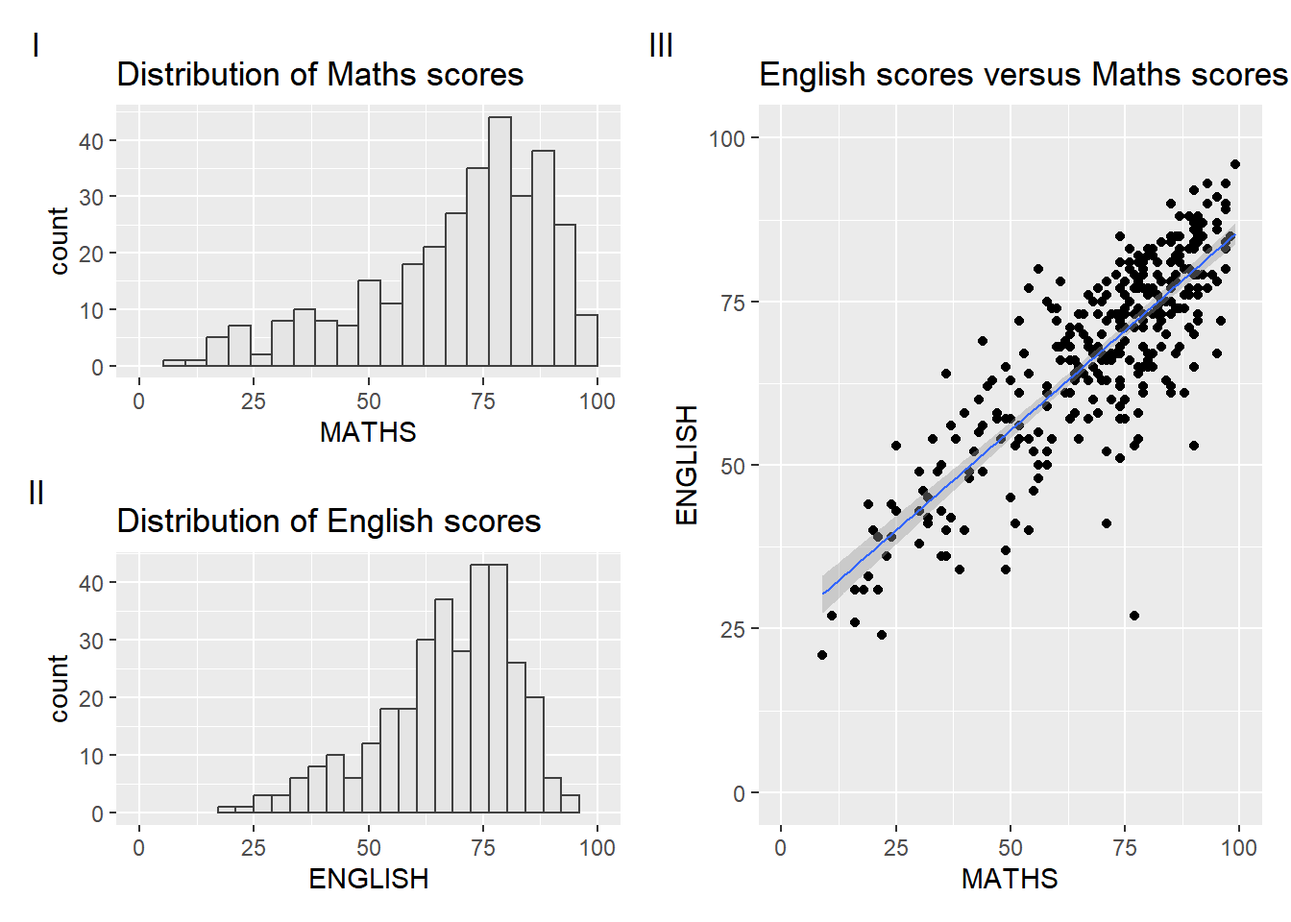
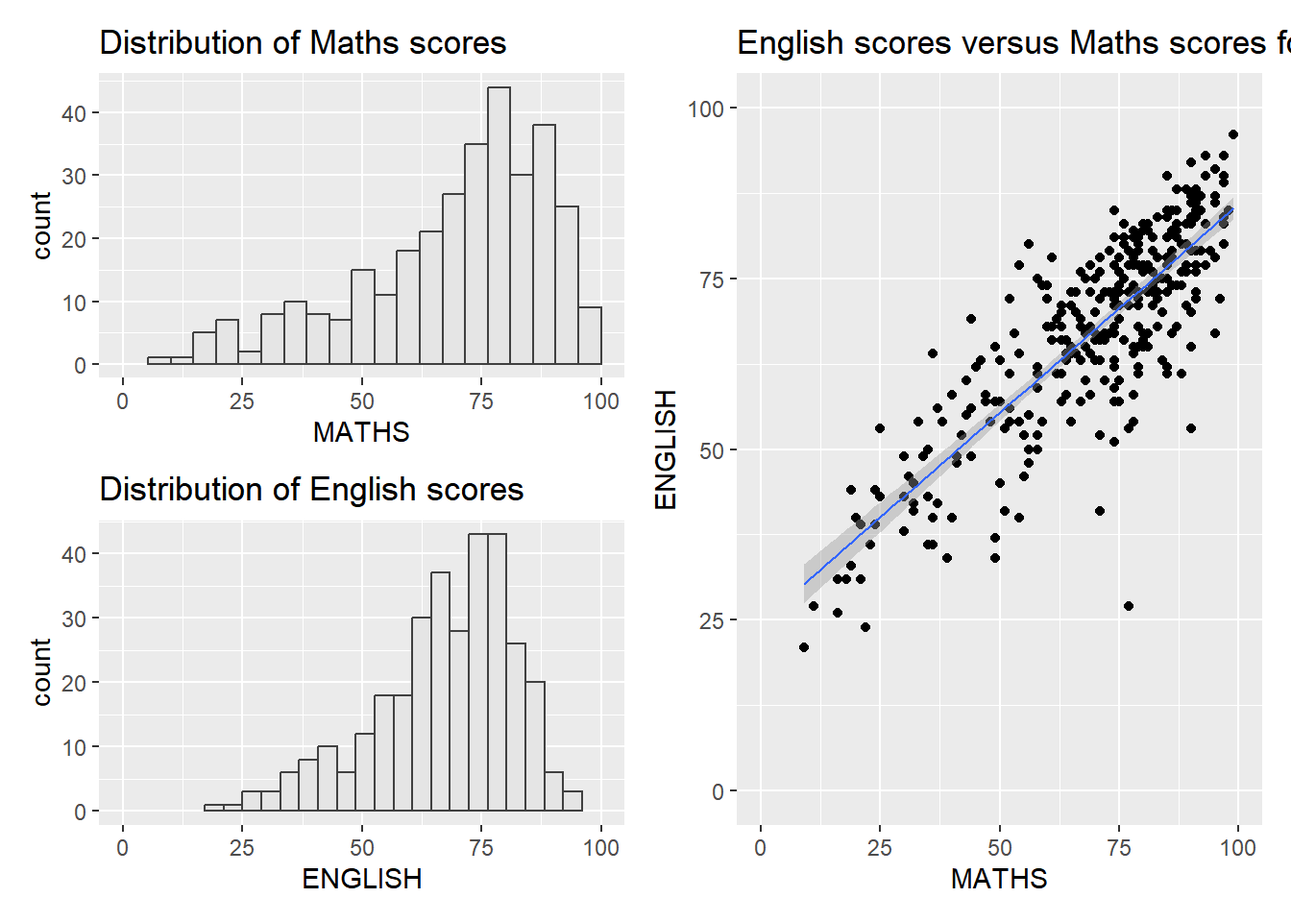
Hands-on 02.Text

diff --git a/_site/Hands-on_Ex/Hands-on EX02/Hands-on Ex02.html b/_site/Hands-on_Ex/Hands-on EX02/Hands-on Ex02.html
@@ -167,6 +167,25 @@ pre > code.sourceCode > span > a:first-child::before { text-decoration: underlin
   <li><a href="#beyond-ggplot2-fundamentals" id="toc-beyond-ggplot2-fundamentals" class="nav-link active" data-scroll-target="#beyond-ggplot2-fundamentals"><strong>2. Beyond ggplot2 Fundamentals</strong></a>
   <ul class="collapse">
   <li><a href="#getting-started" id="toc-getting-started" class="nav-link" data-scroll-target="#getting-started"><strong>2.1 Getting started</strong></a></li>
+  <li><a href="#importing-data" id="toc-importing-data" class="nav-link" data-scroll-target="#importing-data">2.2 Importing data</a></li>
+  <li><a href="#beyand-ggplot2-annotation-ggrepel" id="toc-beyand-ggplot2-annotation-ggrepel" class="nav-link" data-scroll-target="#beyand-ggplot2-annotation-ggrepel">2.3 Beyand ggplot2 Annotation: ggrepel</a>
+  <ul class="collapse">
+  <li><a href="#working-with-ggrepel" id="toc-working-with-ggrepel" class="nav-link" data-scroll-target="#working-with-ggrepel">2.3.1 working with ggrepel</a></li>
+  </ul></li>
+  <li><a href="#beyond-ggplot2-themes" id="toc-beyond-ggplot2-themes" class="nav-link" data-scroll-target="#beyond-ggplot2-themes">2.4 Beyond ggplot2 Themes</a>
+  <ul class="collapse">
+  <li><a href="#working-with-ggthems-package" id="toc-working-with-ggthems-package" class="nav-link" data-scroll-target="#working-with-ggthems-package">2.4.1 Working with ggthems package</a></li>
+  <li><a href="#working-with-hrbthems-package" id="toc-working-with-hrbthems-package" class="nav-link" data-scroll-target="#working-with-hrbthems-package">2.4.2 Working with hrbthems package</a></li>
+  </ul></li>
+  <li><a href="#beyond-single-graph" id="toc-beyond-single-graph" class="nav-link" data-scroll-target="#beyond-single-graph">2.5 Beyond Single Graph</a>
+  <ul class="collapse">
+  <li><a href="#about-pathwork-methods-the-general-syntax-that-combines" id="toc-about-pathwork-methods-the-general-syntax-that-combines" class="nav-link" data-scroll-target="#about-pathwork-methods-the-general-syntax-that-combines">2.5.1 About pathwork methods The general syntax that combines:</a></li>
+  <li><a href="#combining-two-ggplot2-graphs" id="toc-combining-two-ggplot2-graphs" class="nav-link" data-scroll-target="#combining-two-ggplot2-graphs">2.5.2 <strong>Combining two ggplot2 graphs</strong></a></li>
+  <li><a href="#combining-three-ggplot2-graphs" id="toc-combining-three-ggplot2-graphs" class="nav-link" data-scroll-target="#combining-three-ggplot2-graphs">2.5.3 <strong>Combining three ggplot2 graphs</strong></a></li>
+  <li><a href="#creating-a-composite-figure-with-tag" id="toc-creating-a-composite-figure-with-tag" class="nav-link" data-scroll-target="#creating-a-composite-figure-with-tag">2.5.4 <strong>Creating a composite figure with tag</strong></a></li>
+  <li><a href="#creating-figure-with-insert" id="toc-creating-figure-with-insert" class="nav-link" data-scroll-target="#creating-figure-with-insert">2.5.5 <strong>Creating figure with insert</strong></a></li>
+  <li><a href="#creating-a-composite-figure-by-using-patchwork-and-ggtheme" id="toc-creating-a-composite-figure-by-using-patchwork-and-ggtheme" class="nav-link" data-scroll-target="#creating-a-composite-figure-by-using-patchwork-and-ggtheme">2.5.6 <strong>Creating a composite figure by using patchwork and ggtheme</strong></a></li>
+  </ul></li>
   </ul></li>
   </ul>
 </nav>
@@ -199,6 +218,11 @@ pre > code.sourceCode > span > a:first-child::before { text-decoration: underlin
 </header>
 
 
+<section id="beyond-ggplot2-fundamentals" class="level1">
+<h1><strong>2. Beyond ggplot2 Fundamentals</strong></h1>
+<section id="getting-started" class="level2">
+<h2 class="anchored" data-anchor-id="getting-started"><strong>2.1 Getting started</strong></h2>
+<p>Installing and loading the required libraries</p>
 <div class="cell">
 <div class="sourceCode cell-code" id="cb1"><pre class="sourceCode r code-with-copy"><code class="sourceCode r"><span id="cb1-1"><a href="#cb1-1" aria-hidden="true" tabindex="-1"></a>pacman<span class="sc">::</span> <span class="fu">p_load</span>(tidyverse)</span></code><button title="Copy to Clipboard" class="code-copy-button"><i class="bi"></i></button></pre></div>
 </div>
@@ -207,6 +231,9 @@ pre > code.sourceCode > span > a:first-child::before { text-decoration: underlin
 <span id="cb2-2"><a href="#cb2-2" aria-hidden="true" tabindex="-1"></a>               ggthemes, hrbrthemes,</span>
 <span id="cb2-3"><a href="#cb2-3" aria-hidden="true" tabindex="-1"></a>               tidyverse) </span></code><button title="Copy to Clipboard" class="code-copy-button"><i class="bi"></i></button></pre></div>
 </div>
+</section>
+<section id="importing-data" class="level2">
+<h2 class="anchored" data-anchor-id="importing-data">2.2 Importing data</h2>
 <div class="cell">
 <div class="sourceCode cell-code" id="cb3"><pre class="sourceCode r code-with-copy"><code class="sourceCode r"><span id="cb3-1"><a href="#cb3-1" aria-hidden="true" tabindex="-1"></a>exam_data <span class="ot">&lt;-</span> <span class="fu">read_csv</span>(<span class="st">"Exam_data.csv"</span>, <span class="at">col_types =</span> <span class="fu">cols</span>(</span>
 <span id="cb3-2"><a href="#cb3-2" aria-hidden="true" tabindex="-1"></a>  <span class="at">ID =</span> <span class="fu">col_character</span>(),</span>
@@ -218,11 +245,9 @@ pre > code.sourceCode > span > a:first-child::before { text-decoration: underlin
 <span id="cb3-8"><a href="#cb3-8" aria-hidden="true" tabindex="-1"></a>  <span class="at">SCIENCE =</span> <span class="fu">col_double</span>()</span>
 <span id="cb3-9"><a href="#cb3-9" aria-hidden="true" tabindex="-1"></a>))</span></code><button title="Copy to Clipboard" class="code-copy-button"><i class="bi"></i></button></pre></div>
 </div>
-<section id="beyond-ggplot2-fundamentals" class="level1">
-<h1><strong>2. Beyond ggplot2 Fundamentals</strong></h1>
-<section id="getting-started" class="level2">
-<h2 class="anchored" data-anchor-id="getting-started"><strong>2.1 Getting started</strong></h2>
-<p>2.3.1</p>
+</section>
+<section id="beyand-ggplot2-annotation-ggrepel" class="level2">
+<h2 class="anchored" data-anchor-id="beyand-ggplot2-annotation-ggrepel">2.3 Beyand ggplot2 Annotation: ggrepel</h2>
 <div class="cell">
 <div class="sourceCode cell-code" id="cb4"><pre class="sourceCode r code-with-copy"><code class="sourceCode r"><span id="cb4-1"><a href="#cb4-1" aria-hidden="true" tabindex="-1"></a><span class="fu">ggplot</span>(<span class="at">data=</span>exam_data, </span>
 <span id="cb4-2"><a href="#cb4-2" aria-hidden="true" tabindex="-1"></a>       <span class="fu">aes</span>(<span class="at">x=</span> MATHS, </span>
@@ -251,16 +276,27 @@ pre > code.sourceCode > span > a:first-child::before { text-decoration: underlin
 </div>
 </div>
 </div>
-<p>2.4</p>
+<section id="working-with-ggrepel" class="level3">
+<h3 class="anchored" data-anchor-id="working-with-ggrepel">2.3.1 working with ggrepel</h3>
 <div class="cell">
 <div class="sourceCode cell-code" id="cb7"><pre class="sourceCode r code-with-copy"><code class="sourceCode r"><span id="cb7-1"><a href="#cb7-1" aria-hidden="true" tabindex="-1"></a><span class="fu">ggplot</span>(<span class="at">data=</span>exam_data, </span>
-<span id="cb7-2"><a href="#cb7-2" aria-hidden="true" tabindex="-1"></a>             <span class="fu">aes</span>(<span class="at">x =</span> MATHS)) <span class="sc">+</span></span>
-<span id="cb7-3"><a href="#cb7-3" aria-hidden="true" tabindex="-1"></a>  <span class="fu">geom_histogram</span>(<span class="at">bins=</span><span class="dv">20</span>, </span>
-<span id="cb7-4"><a href="#cb7-4" aria-hidden="true" tabindex="-1"></a>                 <span class="at">boundary =</span> <span class="dv">100</span>,</span>
-<span id="cb7-5"><a href="#cb7-5" aria-hidden="true" tabindex="-1"></a>                 <span class="at">color=</span><span class="st">"grey25"</span>, </span>
-<span id="cb7-6"><a href="#cb7-6" aria-hidden="true" tabindex="-1"></a>                 <span class="at">fill=</span><span class="st">"grey90"</span>) <span class="sc">+</span></span>
-<span id="cb7-7"><a href="#cb7-7" aria-hidden="true" tabindex="-1"></a>  <span class="fu">theme_gray</span>() <span class="sc">+</span></span>
-<span id="cb7-8"><a href="#cb7-8" aria-hidden="true" tabindex="-1"></a>  <span class="fu">ggtitle</span>(<span class="st">"Distribution of Maths scores"</span>) </span></code><button title="Copy to Clipboard" class="code-copy-button"><i class="bi"></i></button></pre></div>
+<span id="cb7-2"><a href="#cb7-2" aria-hidden="true" tabindex="-1"></a>       <span class="fu">aes</span>(<span class="at">x=</span> MATHS, </span>
+<span id="cb7-3"><a href="#cb7-3" aria-hidden="true" tabindex="-1"></a>           <span class="at">y=</span>ENGLISH)) <span class="sc">+</span></span>
+<span id="cb7-4"><a href="#cb7-4" aria-hidden="true" tabindex="-1"></a>  <span class="fu">geom_point</span>() <span class="sc">+</span></span>
+<span id="cb7-5"><a href="#cb7-5" aria-hidden="true" tabindex="-1"></a>  <span class="fu">geom_smooth</span>(<span class="at">method=</span>lm, </span>
+<span id="cb7-6"><a href="#cb7-6" aria-hidden="true" tabindex="-1"></a>              <span class="at">size=</span><span class="fl">0.5</span>) <span class="sc">+</span>  </span>
+<span id="cb7-7"><a href="#cb7-7" aria-hidden="true" tabindex="-1"></a>  <span class="fu">geom_label_repel</span>(<span class="fu">aes</span>(<span class="at">label =</span> ID), </span>
+<span id="cb7-8"><a href="#cb7-8" aria-hidden="true" tabindex="-1"></a>                   <span class="at">fontface =</span> <span class="st">"bold"</span>) <span class="sc">+</span></span>
+<span id="cb7-9"><a href="#cb7-9" aria-hidden="true" tabindex="-1"></a>  <span class="fu">coord_cartesian</span>(<span class="at">xlim=</span><span class="fu">c</span>(<span class="dv">0</span>,<span class="dv">100</span>),</span>
+<span id="cb7-10"><a href="#cb7-10" aria-hidden="true" tabindex="-1"></a>                  <span class="at">ylim=</span><span class="fu">c</span>(<span class="dv">0</span>,<span class="dv">100</span>)) <span class="sc">+</span></span>
+<span id="cb7-11"><a href="#cb7-11" aria-hidden="true" tabindex="-1"></a>  <span class="fu">ggtitle</span>(<span class="st">"English scores versus Maths scores for Primary 3"</span>)</span></code><button title="Copy to Clipboard" class="code-copy-button"><i class="bi"></i></button></pre></div>
+<div class="cell-output cell-output-stderr">
+<pre><code>`geom_smooth()` using formula = 'y ~ x'</code></pre>
+</div>
+<div class="cell-output cell-output-stderr">
+<pre><code>Warning: ggrepel: 317 unlabeled data points (too many overlaps). Consider
+increasing max.overlaps</code></pre>
+</div>
 <div class="cell-output-display">
 <div>
 <figure class="figure">
@@ -269,16 +305,19 @@ pre > code.sourceCode > span > a:first-child::before { text-decoration: underlin
 </div>
 </div>
 </div>
-<p>2.4.1</p>
+</section>
+</section>
+<section id="beyond-ggplot2-themes" class="level2">
+<h2 class="anchored" data-anchor-id="beyond-ggplot2-themes">2.4 Beyond ggplot2 Themes</h2>
 <div class="cell">
-<div class="sourceCode cell-code" id="cb8"><pre class="sourceCode r code-with-copy"><code class="sourceCode r"><span id="cb8-1"><a href="#cb8-1" aria-hidden="true" tabindex="-1"></a><span class="fu">ggplot</span>(<span class="at">data=</span>exam_data, </span>
-<span id="cb8-2"><a href="#cb8-2" aria-hidden="true" tabindex="-1"></a>             <span class="fu">aes</span>(<span class="at">x =</span> MATHS)) <span class="sc">+</span></span>
-<span id="cb8-3"><a href="#cb8-3" aria-hidden="true" tabindex="-1"></a>  <span class="fu">geom_histogram</span>(<span class="at">bins=</span><span class="dv">20</span>, </span>
-<span id="cb8-4"><a href="#cb8-4" aria-hidden="true" tabindex="-1"></a>                 <span class="at">boundary =</span> <span class="dv">100</span>,</span>
-<span id="cb8-5"><a href="#cb8-5" aria-hidden="true" tabindex="-1"></a>                 <span class="at">color=</span><span class="st">"grey25"</span>, </span>
-<span id="cb8-6"><a href="#cb8-6" aria-hidden="true" tabindex="-1"></a>                 <span class="at">fill=</span><span class="st">"grey90"</span>) <span class="sc">+</span></span>
-<span id="cb8-7"><a href="#cb8-7" aria-hidden="true" tabindex="-1"></a>  <span class="fu">ggtitle</span>(<span class="st">"Distribution of Maths scores"</span>) <span class="sc">+</span></span>
-<span id="cb8-8"><a href="#cb8-8" aria-hidden="true" tabindex="-1"></a>  <span class="fu">theme_economist</span>()</span></code><button title="Copy to Clipboard" class="code-copy-button"><i class="bi"></i></button></pre></div>
+<div class="sourceCode cell-code" id="cb10"><pre class="sourceCode r code-with-copy"><code class="sourceCode r"><span id="cb10-1"><a href="#cb10-1" aria-hidden="true" tabindex="-1"></a><span class="fu">ggplot</span>(<span class="at">data=</span>exam_data, </span>
+<span id="cb10-2"><a href="#cb10-2" aria-hidden="true" tabindex="-1"></a>             <span class="fu">aes</span>(<span class="at">x =</span> MATHS)) <span class="sc">+</span></span>
+<span id="cb10-3"><a href="#cb10-3" aria-hidden="true" tabindex="-1"></a>  <span class="fu">geom_histogram</span>(<span class="at">bins=</span><span class="dv">20</span>, </span>
+<span id="cb10-4"><a href="#cb10-4" aria-hidden="true" tabindex="-1"></a>                 <span class="at">boundary =</span> <span class="dv">100</span>,</span>
+<span id="cb10-5"><a href="#cb10-5" aria-hidden="true" tabindex="-1"></a>                 <span class="at">color=</span><span class="st">"grey25"</span>, </span>
+<span id="cb10-6"><a href="#cb10-6" aria-hidden="true" tabindex="-1"></a>                 <span class="at">fill=</span><span class="st">"grey90"</span>) <span class="sc">+</span></span>
+<span id="cb10-7"><a href="#cb10-7" aria-hidden="true" tabindex="-1"></a>  <span class="fu">theme_gray</span>() <span class="sc">+</span></span>
+<span id="cb10-8"><a href="#cb10-8" aria-hidden="true" tabindex="-1"></a>  <span class="fu">ggtitle</span>(<span class="st">"Distribution of Maths scores"</span>) </span></code><button title="Copy to Clipboard" class="code-copy-button"><i class="bi"></i></button></pre></div>
 <div class="cell-output-display">
 <div>
 <figure class="figure">
@@ -287,16 +326,17 @@ pre > code.sourceCode > span > a:first-child::before { text-decoration: underlin
 </div>
 </div>
 </div>
-<p>2.4.2</p>
+<section id="working-with-ggthems-package" class="level3">
+<h3 class="anchored" data-anchor-id="working-with-ggthems-package">2.4.1 Working with ggthems package</h3>
 <div class="cell">
-<div class="sourceCode cell-code" id="cb9"><pre class="sourceCode r code-with-copy"><code class="sourceCode r"><span id="cb9-1"><a href="#cb9-1" aria-hidden="true" tabindex="-1"></a><span class="fu">ggplot</span>(<span class="at">data=</span>exam_data, </span>
-<span id="cb9-2"><a href="#cb9-2" aria-hidden="true" tabindex="-1"></a>             <span class="fu">aes</span>(<span class="at">x =</span> MATHS)) <span class="sc">+</span></span>
-<span id="cb9-3"><a href="#cb9-3" aria-hidden="true" tabindex="-1"></a>  <span class="fu">geom_histogram</span>(<span class="at">bins=</span><span class="dv">20</span>, </span>
-<span id="cb9-4"><a href="#cb9-4" aria-hidden="true" tabindex="-1"></a>                 <span class="at">boundary =</span> <span class="dv">100</span>,</span>
-<span id="cb9-5"><a href="#cb9-5" aria-hidden="true" tabindex="-1"></a>                 <span class="at">color=</span><span class="st">"grey25"</span>, </span>
-<span id="cb9-6"><a href="#cb9-6" aria-hidden="true" tabindex="-1"></a>                 <span class="at">fill=</span><span class="st">"grey90"</span>) <span class="sc">+</span></span>
-<span id="cb9-7"><a href="#cb9-7" aria-hidden="true" tabindex="-1"></a>  <span class="fu">ggtitle</span>(<span class="st">"Distribution of Maths scores"</span>) <span class="sc">+</span></span>
-<span id="cb9-8"><a href="#cb9-8" aria-hidden="true" tabindex="-1"></a>  <span class="fu">theme_classic</span>()</span></code><button title="Copy to Clipboard" class="code-copy-button"><i class="bi"></i></button></pre></div>
+<div class="sourceCode cell-code" id="cb11"><pre class="sourceCode r code-with-copy"><code class="sourceCode r"><span id="cb11-1"><a href="#cb11-1" aria-hidden="true" tabindex="-1"></a><span class="fu">ggplot</span>(<span class="at">data=</span>exam_data, </span>
+<span id="cb11-2"><a href="#cb11-2" aria-hidden="true" tabindex="-1"></a>             <span class="fu">aes</span>(<span class="at">x =</span> MATHS)) <span class="sc">+</span></span>
+<span id="cb11-3"><a href="#cb11-3" aria-hidden="true" tabindex="-1"></a>  <span class="fu">geom_histogram</span>(<span class="at">bins=</span><span class="dv">20</span>, </span>
+<span id="cb11-4"><a href="#cb11-4" aria-hidden="true" tabindex="-1"></a>                 <span class="at">boundary =</span> <span class="dv">100</span>,</span>
+<span id="cb11-5"><a href="#cb11-5" aria-hidden="true" tabindex="-1"></a>                 <span class="at">color=</span><span class="st">"grey25"</span>, </span>
+<span id="cb11-6"><a href="#cb11-6" aria-hidden="true" tabindex="-1"></a>                 <span class="at">fill=</span><span class="st">"grey90"</span>) <span class="sc">+</span></span>
+<span id="cb11-7"><a href="#cb11-7" aria-hidden="true" tabindex="-1"></a>  <span class="fu">ggtitle</span>(<span class="st">"Distribution of Maths scores"</span>) <span class="sc">+</span></span>
+<span id="cb11-8"><a href="#cb11-8" aria-hidden="true" tabindex="-1"></a>  <span class="fu">theme_economist</span>()</span></code><button title="Copy to Clipboard" class="code-copy-button"><i class="bi"></i></button></pre></div>
 <div class="cell-output-display">
 <div>
 <figure class="figure">
@@ -305,19 +345,18 @@ pre > code.sourceCode > span > a:first-child::before { text-decoration: underlin
 </div>
 </div>
 </div>
+</section>
+<section id="working-with-hrbthems-package" class="level3">
+<h3 class="anchored" data-anchor-id="working-with-hrbthems-package">2.4.2 Working with hrbthems package</h3>
 <div class="cell">
-<div class="sourceCode cell-code" id="cb10"><pre class="sourceCode r code-with-copy"><code class="sourceCode r"><span id="cb10-1"><a href="#cb10-1" aria-hidden="true" tabindex="-1"></a><span class="fu">ggplot</span>(<span class="at">data=</span>exam_data, </span>
-<span id="cb10-2"><a href="#cb10-2" aria-hidden="true" tabindex="-1"></a>             <span class="fu">aes</span>(<span class="at">x =</span> MATHS)) <span class="sc">+</span></span>
-<span id="cb10-3"><a href="#cb10-3" aria-hidden="true" tabindex="-1"></a>  <span class="fu">geom_histogram</span>(<span class="at">bins=</span><span class="dv">20</span>, </span>
-<span id="cb10-4"><a href="#cb10-4" aria-hidden="true" tabindex="-1"></a>                 <span class="at">boundary =</span> <span class="dv">100</span>,</span>
-<span id="cb10-5"><a href="#cb10-5" aria-hidden="true" tabindex="-1"></a>                 <span class="at">color=</span><span class="st">"grey25"</span>, </span>
-<span id="cb10-6"><a href="#cb10-6" aria-hidden="true" tabindex="-1"></a>                 <span class="at">fill=</span><span class="st">"grey90"</span>) <span class="sc">+</span></span>
-<span id="cb10-7"><a href="#cb10-7" aria-hidden="true" tabindex="-1"></a>  <span class="fu">ggtitle</span>(<span class="st">"Distribution of Maths scores"</span>) <span class="sc">+</span></span>
-<span id="cb10-8"><a href="#cb10-8" aria-hidden="true" tabindex="-1"></a>  <span class="fu">theme_minimal</span>(<span class="at">base_size =</span> <span class="dv">15</span>) <span class="sc">+</span> </span>
-<span id="cb10-9"><a href="#cb10-9" aria-hidden="true" tabindex="-1"></a>  <span class="fu">theme</span>(<span class="at">axis.title =</span> <span class="fu">element_text</span>(<span class="at">size =</span> <span class="dv">18</span>), </span>
-<span id="cb10-10"><a href="#cb10-10" aria-hidden="true" tabindex="-1"></a>        <span class="at">axis.text =</span> <span class="fu">element_text</span>(<span class="at">size =</span> <span class="dv">15</span>),  </span>
-<span id="cb10-11"><a href="#cb10-11" aria-hidden="true" tabindex="-1"></a>        <span class="at">panel.grid.major.y =</span> <span class="fu">element_line</span>(),  </span>
-<span id="cb10-12"><a href="#cb10-12" aria-hidden="true" tabindex="-1"></a>        <span class="at">panel.grid.minor.y =</span> <span class="fu">element_blank</span>())</span></code><button title="Copy to Clipboard" class="code-copy-button"><i class="bi"></i></button></pre></div>
+<div class="sourceCode cell-code" id="cb12"><pre class="sourceCode r code-with-copy"><code class="sourceCode r"><span id="cb12-1"><a href="#cb12-1" aria-hidden="true" tabindex="-1"></a><span class="fu">ggplot</span>(<span class="at">data=</span>exam_data, </span>
+<span id="cb12-2"><a href="#cb12-2" aria-hidden="true" tabindex="-1"></a>             <span class="fu">aes</span>(<span class="at">x =</span> MATHS)) <span class="sc">+</span></span>
+<span id="cb12-3"><a href="#cb12-3" aria-hidden="true" tabindex="-1"></a>  <span class="fu">geom_histogram</span>(<span class="at">bins=</span><span class="dv">20</span>, </span>
+<span id="cb12-4"><a href="#cb12-4" aria-hidden="true" tabindex="-1"></a>                 <span class="at">boundary =</span> <span class="dv">100</span>,</span>
+<span id="cb12-5"><a href="#cb12-5" aria-hidden="true" tabindex="-1"></a>                 <span class="at">color=</span><span class="st">"grey25"</span>, </span>
+<span id="cb12-6"><a href="#cb12-6" aria-hidden="true" tabindex="-1"></a>                 <span class="at">fill=</span><span class="st">"grey90"</span>) <span class="sc">+</span></span>
+<span id="cb12-7"><a href="#cb12-7" aria-hidden="true" tabindex="-1"></a>  <span class="fu">ggtitle</span>(<span class="st">"Distribution of Maths scores"</span>) <span class="sc">+</span></span>
+<span id="cb12-8"><a href="#cb12-8" aria-hidden="true" tabindex="-1"></a>  <span class="fu">theme_classic</span>()</span></code><button title="Copy to Clipboard" class="code-copy-button"><i class="bi"></i></button></pre></div>
 <div class="cell-output-display">
 <div>
 <figure class="figure">
@@ -326,55 +365,74 @@ pre > code.sourceCode > span > a:first-child::before { text-decoration: underlin
 </div>
 </div>
 </div>
-<p>2.5</p>
 <div class="cell">
-<div class="sourceCode cell-code" id="cb11"><pre class="sourceCode r code-with-copy"><code class="sourceCode r"><span id="cb11-1"><a href="#cb11-1" aria-hidden="true" tabindex="-1"></a>p1 <span class="ot">&lt;-</span> <span class="fu">ggplot</span>(<span class="at">data=</span>exam_data, </span>
-<span id="cb11-2"><a href="#cb11-2" aria-hidden="true" tabindex="-1"></a>             <span class="fu">aes</span>(<span class="at">x =</span> MATHS)) <span class="sc">+</span></span>
-<span id="cb11-3"><a href="#cb11-3" aria-hidden="true" tabindex="-1"></a>  <span class="fu">geom_histogram</span>(<span class="at">bins=</span><span class="dv">20</span>, </span>
-<span id="cb11-4"><a href="#cb11-4" aria-hidden="true" tabindex="-1"></a>                 <span class="at">boundary =</span> <span class="dv">100</span>,</span>
-<span id="cb11-5"><a href="#cb11-5" aria-hidden="true" tabindex="-1"></a>                 <span class="at">color=</span><span class="st">"grey25"</span>, </span>
-<span id="cb11-6"><a href="#cb11-6" aria-hidden="true" tabindex="-1"></a>                 <span class="at">fill=</span><span class="st">"grey90"</span>) <span class="sc">+</span> </span>
-<span id="cb11-7"><a href="#cb11-7" aria-hidden="true" tabindex="-1"></a>  <span class="fu">coord_cartesian</span>(<span class="at">xlim=</span><span class="fu">c</span>(<span class="dv">0</span>,<span class="dv">100</span>)) <span class="sc">+</span></span>
-<span id="cb11-8"><a href="#cb11-8" aria-hidden="true" tabindex="-1"></a>  <span class="fu">ggtitle</span>(<span class="st">"Distribution of Maths scores"</span>)</span></code><button title="Copy to Clipboard" class="code-copy-button"><i class="bi"></i></button></pre></div>
-</div>
-<div class="cell">
-<div class="sourceCode cell-code" id="cb12"><pre class="sourceCode r code-with-copy"><code class="sourceCode r"><span id="cb12-1"><a href="#cb12-1" aria-hidden="true" tabindex="-1"></a>p2 <span class="ot">&lt;-</span> <span class="fu">ggplot</span>(<span class="at">data=</span>exam_data, </span>
-<span id="cb12-2"><a href="#cb12-2" aria-hidden="true" tabindex="-1"></a>             <span class="fu">aes</span>(<span class="at">x =</span> ENGLISH)) <span class="sc">+</span></span>
-<span id="cb12-3"><a href="#cb12-3" aria-hidden="true" tabindex="-1"></a>  <span class="fu">geom_histogram</span>(<span class="at">bins=</span><span class="dv">20</span>, </span>
-<span id="cb12-4"><a href="#cb12-4" aria-hidden="true" tabindex="-1"></a>                 <span class="at">boundary =</span> <span class="dv">100</span>,</span>
-<span id="cb12-5"><a href="#cb12-5" aria-hidden="true" tabindex="-1"></a>                 <span class="at">color=</span><span class="st">"grey25"</span>, </span>
-<span id="cb12-6"><a href="#cb12-6" aria-hidden="true" tabindex="-1"></a>                 <span class="at">fill=</span><span class="st">"grey90"</span>) <span class="sc">+</span></span>
-<span id="cb12-7"><a href="#cb12-7" aria-hidden="true" tabindex="-1"></a>  <span class="fu">coord_cartesian</span>(<span class="at">xlim=</span><span class="fu">c</span>(<span class="dv">0</span>,<span class="dv">100</span>)) <span class="sc">+</span></span>
-<span id="cb12-8"><a href="#cb12-8" aria-hidden="true" tabindex="-1"></a>  <span class="fu">ggtitle</span>(<span class="st">"Distribution of English scores"</span>)</span></code><button title="Copy to Clipboard" class="code-copy-button"><i class="bi"></i></button></pre></div>
-</div>
-<div class="cell">
-<div class="sourceCode cell-code" id="cb13"><pre class="sourceCode r code-with-copy"><code class="sourceCode r"><span id="cb13-1"><a href="#cb13-1" aria-hidden="true" tabindex="-1"></a>p3 <span class="ot">&lt;-</span> <span class="fu">ggplot</span>(<span class="at">data=</span>exam_data, </span>
-<span id="cb13-2"><a href="#cb13-2" aria-hidden="true" tabindex="-1"></a>             <span class="fu">aes</span>(<span class="at">x=</span> MATHS, </span>
-<span id="cb13-3"><a href="#cb13-3" aria-hidden="true" tabindex="-1"></a>                 <span class="at">y=</span>ENGLISH)) <span class="sc">+</span></span>
-<span id="cb13-4"><a href="#cb13-4" aria-hidden="true" tabindex="-1"></a>  <span class="fu">geom_point</span>() <span class="sc">+</span></span>
-<span id="cb13-5"><a href="#cb13-5" aria-hidden="true" tabindex="-1"></a>  <span class="fu">geom_smooth</span>(<span class="at">method=</span>lm, </span>
-<span id="cb13-6"><a href="#cb13-6" aria-hidden="true" tabindex="-1"></a>              <span class="at">size=</span><span class="fl">0.5</span>) <span class="sc">+</span>  </span>
-<span id="cb13-7"><a href="#cb13-7" aria-hidden="true" tabindex="-1"></a>  <span class="fu">coord_cartesian</span>(<span class="at">xlim=</span><span class="fu">c</span>(<span class="dv">0</span>,<span class="dv">100</span>),</span>
-<span id="cb13-8"><a href="#cb13-8" aria-hidden="true" tabindex="-1"></a>                  <span class="at">ylim=</span><span class="fu">c</span>(<span class="dv">0</span>,<span class="dv">100</span>)) <span class="sc">+</span></span>
-<span id="cb13-9"><a href="#cb13-9" aria-hidden="true" tabindex="-1"></a>  <span class="fu">ggtitle</span>(<span class="st">"English scores versus Maths scores for Primary 3"</span>)</span></code><button title="Copy to Clipboard" class="code-copy-button"><i class="bi"></i></button></pre></div>
-</div>
-<p>2.5.2</p>
-<div class="cell">
-<div class="sourceCode cell-code" id="cb14"><pre class="sourceCode r code-with-copy"><code class="sourceCode r"><span id="cb14-1"><a href="#cb14-1" aria-hidden="true" tabindex="-1"></a>p1 <span class="sc">+</span> p2</span></code><button title="Copy to Clipboard" class="code-copy-button"><i class="bi"></i></button></pre></div>
+<div class="sourceCode cell-code" id="cb13"><pre class="sourceCode r code-with-copy"><code class="sourceCode r"><span id="cb13-1"><a href="#cb13-1" aria-hidden="true" tabindex="-1"></a><span class="fu">ggplot</span>(<span class="at">data=</span>exam_data, </span>
+<span id="cb13-2"><a href="#cb13-2" aria-hidden="true" tabindex="-1"></a>             <span class="fu">aes</span>(<span class="at">x =</span> MATHS)) <span class="sc">+</span></span>
+<span id="cb13-3"><a href="#cb13-3" aria-hidden="true" tabindex="-1"></a>  <span class="fu">geom_histogram</span>(<span class="at">bins=</span><span class="dv">20</span>, </span>
+<span id="cb13-4"><a href="#cb13-4" aria-hidden="true" tabindex="-1"></a>                 <span class="at">boundary =</span> <span class="dv">100</span>,</span>
+<span id="cb13-5"><a href="#cb13-5" aria-hidden="true" tabindex="-1"></a>                 <span class="at">color=</span><span class="st">"grey25"</span>, </span>
+<span id="cb13-6"><a href="#cb13-6" aria-hidden="true" tabindex="-1"></a>                 <span class="at">fill=</span><span class="st">"grey90"</span>) <span class="sc">+</span></span>
+<span id="cb13-7"><a href="#cb13-7" aria-hidden="true" tabindex="-1"></a>  <span class="fu">ggtitle</span>(<span class="st">"Distribution of Maths scores"</span>) <span class="sc">+</span></span>
+<span id="cb13-8"><a href="#cb13-8" aria-hidden="true" tabindex="-1"></a>  <span class="fu">theme_minimal</span>(<span class="at">base_size =</span> <span class="dv">15</span>) <span class="sc">+</span> </span>
+<span id="cb13-9"><a href="#cb13-9" aria-hidden="true" tabindex="-1"></a>  <span class="fu">theme</span>(<span class="at">axis.title =</span> <span class="fu">element_text</span>(<span class="at">size =</span> <span class="dv">18</span>), </span>
+<span id="cb13-10"><a href="#cb13-10" aria-hidden="true" tabindex="-1"></a>        <span class="at">axis.text =</span> <span class="fu">element_text</span>(<span class="at">size =</span> <span class="dv">15</span>),  </span>
+<span id="cb13-11"><a href="#cb13-11" aria-hidden="true" tabindex="-1"></a>        <span class="at">panel.grid.major.y =</span> <span class="fu">element_line</span>(),  </span>
+<span id="cb13-12"><a href="#cb13-12" aria-hidden="true" tabindex="-1"></a>        <span class="at">panel.grid.minor.y =</span> <span class="fu">element_blank</span>())</span></code><button title="Copy to Clipboard" class="code-copy-button"><i class="bi"></i></button></pre></div>
 <div class="cell-output-display">
 <div>
 <figure class="figure">
-<p><img src="Hands-on-Ex02_files/figure-html/unnamed-chunk-12-1.png" class="img-fluid figure-img" width="672"></p>
+<p><img src="Hands-on-Ex02_files/figure-html/unnamed-chunk-9-1.png" class="img-fluid figure-img" width="672"></p>
 </figure>
 </div>
 </div>
 </div>
-<p>2.5.3</p>
+</section>
+</section>
+<section id="beyond-single-graph" class="level2">
+<h2 class="anchored" data-anchor-id="beyond-single-graph">2.5 Beyond Single Graph</h2>
 <div class="cell">
-<div class="sourceCode cell-code" id="cb15"><pre class="sourceCode r code-with-copy"><code class="sourceCode r"><span id="cb15-1"><a href="#cb15-1" aria-hidden="true" tabindex="-1"></a>(p1 <span class="sc">/</span> p2) <span class="sc">|</span> p3</span></code><button title="Copy to Clipboard" class="code-copy-button"><i class="bi"></i></button></pre></div>
-<div class="cell-output cell-output-stderr">
-<pre><code>`geom_smooth()` using formula = 'y ~ x'</code></pre>
+<div class="sourceCode cell-code" id="cb14"><pre class="sourceCode r code-with-copy"><code class="sourceCode r"><span id="cb14-1"><a href="#cb14-1" aria-hidden="true" tabindex="-1"></a>p1 <span class="ot">&lt;-</span> <span class="fu">ggplot</span>(<span class="at">data=</span>exam_data, </span>
+<span id="cb14-2"><a href="#cb14-2" aria-hidden="true" tabindex="-1"></a>             <span class="fu">aes</span>(<span class="at">x =</span> MATHS)) <span class="sc">+</span></span>
+<span id="cb14-3"><a href="#cb14-3" aria-hidden="true" tabindex="-1"></a>  <span class="fu">geom_histogram</span>(<span class="at">bins=</span><span class="dv">20</span>, </span>
+<span id="cb14-4"><a href="#cb14-4" aria-hidden="true" tabindex="-1"></a>                 <span class="at">boundary =</span> <span class="dv">100</span>,</span>
+<span id="cb14-5"><a href="#cb14-5" aria-hidden="true" tabindex="-1"></a>                 <span class="at">color=</span><span class="st">"grey25"</span>, </span>
+<span id="cb14-6"><a href="#cb14-6" aria-hidden="true" tabindex="-1"></a>                 <span class="at">fill=</span><span class="st">"grey90"</span>) <span class="sc">+</span> </span>
+<span id="cb14-7"><a href="#cb14-7" aria-hidden="true" tabindex="-1"></a>  <span class="fu">coord_cartesian</span>(<span class="at">xlim=</span><span class="fu">c</span>(<span class="dv">0</span>,<span class="dv">100</span>)) <span class="sc">+</span></span>
+<span id="cb14-8"><a href="#cb14-8" aria-hidden="true" tabindex="-1"></a>  <span class="fu">ggtitle</span>(<span class="st">"Distribution of Maths scores"</span>)</span></code><button title="Copy to Clipboard" class="code-copy-button"><i class="bi"></i></button></pre></div>
 </div>
+<div class="cell">
+<div class="sourceCode cell-code" id="cb15"><pre class="sourceCode r code-with-copy"><code class="sourceCode r"><span id="cb15-1"><a href="#cb15-1" aria-hidden="true" tabindex="-1"></a>p2 <span class="ot">&lt;-</span> <span class="fu">ggplot</span>(<span class="at">data=</span>exam_data, </span>
+<span id="cb15-2"><a href="#cb15-2" aria-hidden="true" tabindex="-1"></a>             <span class="fu">aes</span>(<span class="at">x =</span> ENGLISH)) <span class="sc">+</span></span>
+<span id="cb15-3"><a href="#cb15-3" aria-hidden="true" tabindex="-1"></a>  <span class="fu">geom_histogram</span>(<span class="at">bins=</span><span class="dv">20</span>, </span>
+<span id="cb15-4"><a href="#cb15-4" aria-hidden="true" tabindex="-1"></a>                 <span class="at">boundary =</span> <span class="dv">100</span>,</span>
+<span id="cb15-5"><a href="#cb15-5" aria-hidden="true" tabindex="-1"></a>                 <span class="at">color=</span><span class="st">"grey25"</span>, </span>
+<span id="cb15-6"><a href="#cb15-6" aria-hidden="true" tabindex="-1"></a>                 <span class="at">fill=</span><span class="st">"grey90"</span>) <span class="sc">+</span></span>
+<span id="cb15-7"><a href="#cb15-7" aria-hidden="true" tabindex="-1"></a>  <span class="fu">coord_cartesian</span>(<span class="at">xlim=</span><span class="fu">c</span>(<span class="dv">0</span>,<span class="dv">100</span>)) <span class="sc">+</span></span>
+<span id="cb15-8"><a href="#cb15-8" aria-hidden="true" tabindex="-1"></a>  <span class="fu">ggtitle</span>(<span class="st">"Distribution of English scores"</span>)</span></code><button title="Copy to Clipboard" class="code-copy-button"><i class="bi"></i></button></pre></div>
+</div>
+<div class="cell">
+<div class="sourceCode cell-code" id="cb16"><pre class="sourceCode r code-with-copy"><code class="sourceCode r"><span id="cb16-1"><a href="#cb16-1" aria-hidden="true" tabindex="-1"></a>p3 <span class="ot">&lt;-</span> <span class="fu">ggplot</span>(<span class="at">data=</span>exam_data, </span>
+<span id="cb16-2"><a href="#cb16-2" aria-hidden="true" tabindex="-1"></a>             <span class="fu">aes</span>(<span class="at">x=</span> MATHS, </span>
+<span id="cb16-3"><a href="#cb16-3" aria-hidden="true" tabindex="-1"></a>                 <span class="at">y=</span>ENGLISH)) <span class="sc">+</span></span>
+<span id="cb16-4"><a href="#cb16-4" aria-hidden="true" tabindex="-1"></a>  <span class="fu">geom_point</span>() <span class="sc">+</span></span>
+<span id="cb16-5"><a href="#cb16-5" aria-hidden="true" tabindex="-1"></a>  <span class="fu">geom_smooth</span>(<span class="at">method=</span>lm, </span>
+<span id="cb16-6"><a href="#cb16-6" aria-hidden="true" tabindex="-1"></a>              <span class="at">size=</span><span class="fl">0.5</span>) <span class="sc">+</span>  </span>
+<span id="cb16-7"><a href="#cb16-7" aria-hidden="true" tabindex="-1"></a>  <span class="fu">coord_cartesian</span>(<span class="at">xlim=</span><span class="fu">c</span>(<span class="dv">0</span>,<span class="dv">100</span>),</span>
+<span id="cb16-8"><a href="#cb16-8" aria-hidden="true" tabindex="-1"></a>                  <span class="at">ylim=</span><span class="fu">c</span>(<span class="dv">0</span>,<span class="dv">100</span>)) <span class="sc">+</span></span>
+<span id="cb16-9"><a href="#cb16-9" aria-hidden="true" tabindex="-1"></a>  <span class="fu">ggtitle</span>(<span class="st">"English scores versus Maths scores for Primary 3"</span>)</span></code><button title="Copy to Clipboard" class="code-copy-button"><i class="bi"></i></button></pre></div>
+</div>
+<section id="about-pathwork-methods-the-general-syntax-that-combines" class="level3">
+<h3 class="anchored" data-anchor-id="about-pathwork-methods-the-general-syntax-that-combines">2.5.1 About pathwork methods The general syntax that combines:</h3>
+<ul>
+<li><p>Two-Column Layout using the Plus Sign +</p></li>
+<li><p>Parenthesis () to create a subplot group</p></li>
+<li><p>Two-Row Layout using the Division Sign /</p></li>
+</ul>
+</section>
+<section id="combining-two-ggplot2-graphs" class="level3">
+<h3 class="anchored" data-anchor-id="combining-two-ggplot2-graphs">2.5.2 <strong>Combining two ggplot2 graphs</strong></h3>
+<div class="cell">
+<div class="sourceCode cell-code" id="cb17"><pre class="sourceCode r code-with-copy"><code class="sourceCode r"><span id="cb17-1"><a href="#cb17-1" aria-hidden="true" tabindex="-1"></a>p1 <span class="sc">+</span> p2</span></code><button title="Copy to Clipboard" class="code-copy-button"><i class="bi"></i></button></pre></div>
 <div class="cell-output-display">
 <div>
 <figure class="figure">
@@ -383,10 +441,11 @@ pre > code.sourceCode > span > a:first-child::before { text-decoration: underlin
 </div>
 </div>
 </div>
-<p>2.5.4</p>
+</section>
+<section id="combining-three-ggplot2-graphs" class="level3">
+<h3 class="anchored" data-anchor-id="combining-three-ggplot2-graphs">2.5.3 <strong>Combining three ggplot2 graphs</strong></h3>
 <div class="cell">
-<div class="sourceCode cell-code" id="cb17"><pre class="sourceCode r code-with-copy"><code class="sourceCode r"><span id="cb17-1"><a href="#cb17-1" aria-hidden="true" tabindex="-1"></a>((p1 <span class="sc">/</span> p2) <span class="sc">|</span> p3) <span class="sc">+</span> </span>
-<span id="cb17-2"><a href="#cb17-2" aria-hidden="true" tabindex="-1"></a>  <span class="fu">plot_annotation</span>(<span class="at">tag_levels =</span> <span class="st">'I'</span>)</span></code><button title="Copy to Clipboard" class="code-copy-button"><i class="bi"></i></button></pre></div>
+<div class="sourceCode cell-code" id="cb18"><pre class="sourceCode r code-with-copy"><code class="sourceCode r"><span id="cb18-1"><a href="#cb18-1" aria-hidden="true" tabindex="-1"></a>(p1 <span class="sc">/</span> p2) <span class="sc">|</span> p3</span></code><button title="Copy to Clipboard" class="code-copy-button"><i class="bi"></i></button></pre></div>
 <div class="cell-output cell-output-stderr">
 <pre><code>`geom_smooth()` using formula = 'y ~ x'</code></pre>
 </div>
@@ -398,13 +457,12 @@ pre > code.sourceCode > span > a:first-child::before { text-decoration: underlin
 </div>
 </div>
 </div>
-<p>2.5.5</p>
+</section>
+<section id="creating-a-composite-figure-with-tag" class="level3">
+<h3 class="anchored" data-anchor-id="creating-a-composite-figure-with-tag">2.5.4 <strong>Creating a composite figure with tag</strong></h3>
 <div class="cell">
-<div class="sourceCode cell-code" id="cb19"><pre class="sourceCode r code-with-copy"><code class="sourceCode r"><span id="cb19-1"><a href="#cb19-1" aria-hidden="true" tabindex="-1"></a>p3 <span class="sc">+</span> <span class="fu">inset_element</span>(p2, </span>
-<span id="cb19-2"><a href="#cb19-2" aria-hidden="true" tabindex="-1"></a>                   <span class="at">left =</span> <span class="fl">0.02</span>, </span>
-<span id="cb19-3"><a href="#cb19-3" aria-hidden="true" tabindex="-1"></a>                   <span class="at">bottom =</span> <span class="fl">0.7</span>, </span>
-<span id="cb19-4"><a href="#cb19-4" aria-hidden="true" tabindex="-1"></a>                   <span class="at">right =</span> <span class="fl">0.5</span>, </span>
-<span id="cb19-5"><a href="#cb19-5" aria-hidden="true" tabindex="-1"></a>                   <span class="at">top =</span> <span class="dv">1</span>)</span></code><button title="Copy to Clipboard" class="code-copy-button"><i class="bi"></i></button></pre></div>
+<div class="sourceCode cell-code" id="cb20"><pre class="sourceCode r code-with-copy"><code class="sourceCode r"><span id="cb20-1"><a href="#cb20-1" aria-hidden="true" tabindex="-1"></a>((p1 <span class="sc">/</span> p2) <span class="sc">|</span> p3) <span class="sc">+</span> </span>
+<span id="cb20-2"><a href="#cb20-2" aria-hidden="true" tabindex="-1"></a>  <span class="fu">plot_annotation</span>(<span class="at">tag_levels =</span> <span class="st">'I'</span>)</span></code><button title="Copy to Clipboard" class="code-copy-button"><i class="bi"></i></button></pre></div>
 <div class="cell-output cell-output-stderr">
 <pre><code>`geom_smooth()` using formula = 'y ~ x'</code></pre>
 </div>
@@ -416,10 +474,15 @@ pre > code.sourceCode > span > a:first-child::before { text-decoration: underlin
 </div>
 </div>
 </div>
-<p>2.5.6</p>
+</section>
+<section id="creating-figure-with-insert" class="level3">
+<h3 class="anchored" data-anchor-id="creating-figure-with-insert">2.5.5 <strong>Creating figure with insert</strong></h3>
 <div class="cell">
-<div class="sourceCode cell-code" id="cb21"><pre class="sourceCode r code-with-copy"><code class="sourceCode r"><span id="cb21-1"><a href="#cb21-1" aria-hidden="true" tabindex="-1"></a>patchwork <span class="ot">&lt;-</span> (p1 <span class="sc">/</span> p2) <span class="sc">|</span> p3</span>
-<span id="cb21-2"><a href="#cb21-2" aria-hidden="true" tabindex="-1"></a>patchwork <span class="sc">&amp;</span> <span class="fu">theme_economist</span>()</span></code><button title="Copy to Clipboard" class="code-copy-button"><i class="bi"></i></button></pre></div>
+<div class="sourceCode cell-code" id="cb22"><pre class="sourceCode r code-with-copy"><code class="sourceCode r"><span id="cb22-1"><a href="#cb22-1" aria-hidden="true" tabindex="-1"></a>p3 <span class="sc">+</span> <span class="fu">inset_element</span>(p2, </span>
+<span id="cb22-2"><a href="#cb22-2" aria-hidden="true" tabindex="-1"></a>                   <span class="at">left =</span> <span class="fl">0.02</span>, </span>
+<span id="cb22-3"><a href="#cb22-3" aria-hidden="true" tabindex="-1"></a>                   <span class="at">bottom =</span> <span class="fl">0.7</span>, </span>
+<span id="cb22-4"><a href="#cb22-4" aria-hidden="true" tabindex="-1"></a>                   <span class="at">right =</span> <span class="fl">0.5</span>, </span>
+<span id="cb22-5"><a href="#cb22-5" aria-hidden="true" tabindex="-1"></a>                   <span class="at">top =</span> <span class="dv">1</span>)</span></code><button title="Copy to Clipboard" class="code-copy-button"><i class="bi"></i></button></pre></div>
 <div class="cell-output cell-output-stderr">
 <pre><code>`geom_smooth()` using formula = 'y ~ x'</code></pre>
 </div>
@@ -431,8 +494,26 @@ pre > code.sourceCode > span > a:first-child::before { text-decoration: underlin
 </div>
 </div>
 </div>
+</section>
+<section id="creating-a-composite-figure-by-using-patchwork-and-ggtheme" class="level3">
+<h3 class="anchored" data-anchor-id="creating-a-composite-figure-by-using-patchwork-and-ggtheme">2.5.6 <strong>Creating a composite figure by using patchwork and ggtheme</strong></h3>
+<div class="cell">
+<div class="sourceCode cell-code" id="cb24"><pre class="sourceCode r code-with-copy"><code class="sourceCode r"><span id="cb24-1"><a href="#cb24-1" aria-hidden="true" tabindex="-1"></a>patchwork <span class="ot">&lt;-</span> (p1 <span class="sc">/</span> p2) <span class="sc">|</span> p3</span>
+<span id="cb24-2"><a href="#cb24-2" aria-hidden="true" tabindex="-1"></a>patchwork <span class="sc">&amp;</span> <span class="fu">theme_economist</span>()</span></code><button title="Copy to Clipboard" class="code-copy-button"><i class="bi"></i></button></pre></div>
+<div class="cell-output cell-output-stderr">
+<pre><code>`geom_smooth()` using formula = 'y ~ x'</code></pre>
+</div>
+<div class="cell-output-display">
+<div>
+<figure class="figure">
+<p><img src="Hands-on-Ex02_files/figure-html/unnamed-chunk-17-1.png" class="img-fluid figure-img" width="672"></p>
+</figure>
+</div>
+</div>
+</div>
 
 
+</section>
 </section>
 </section>
 
